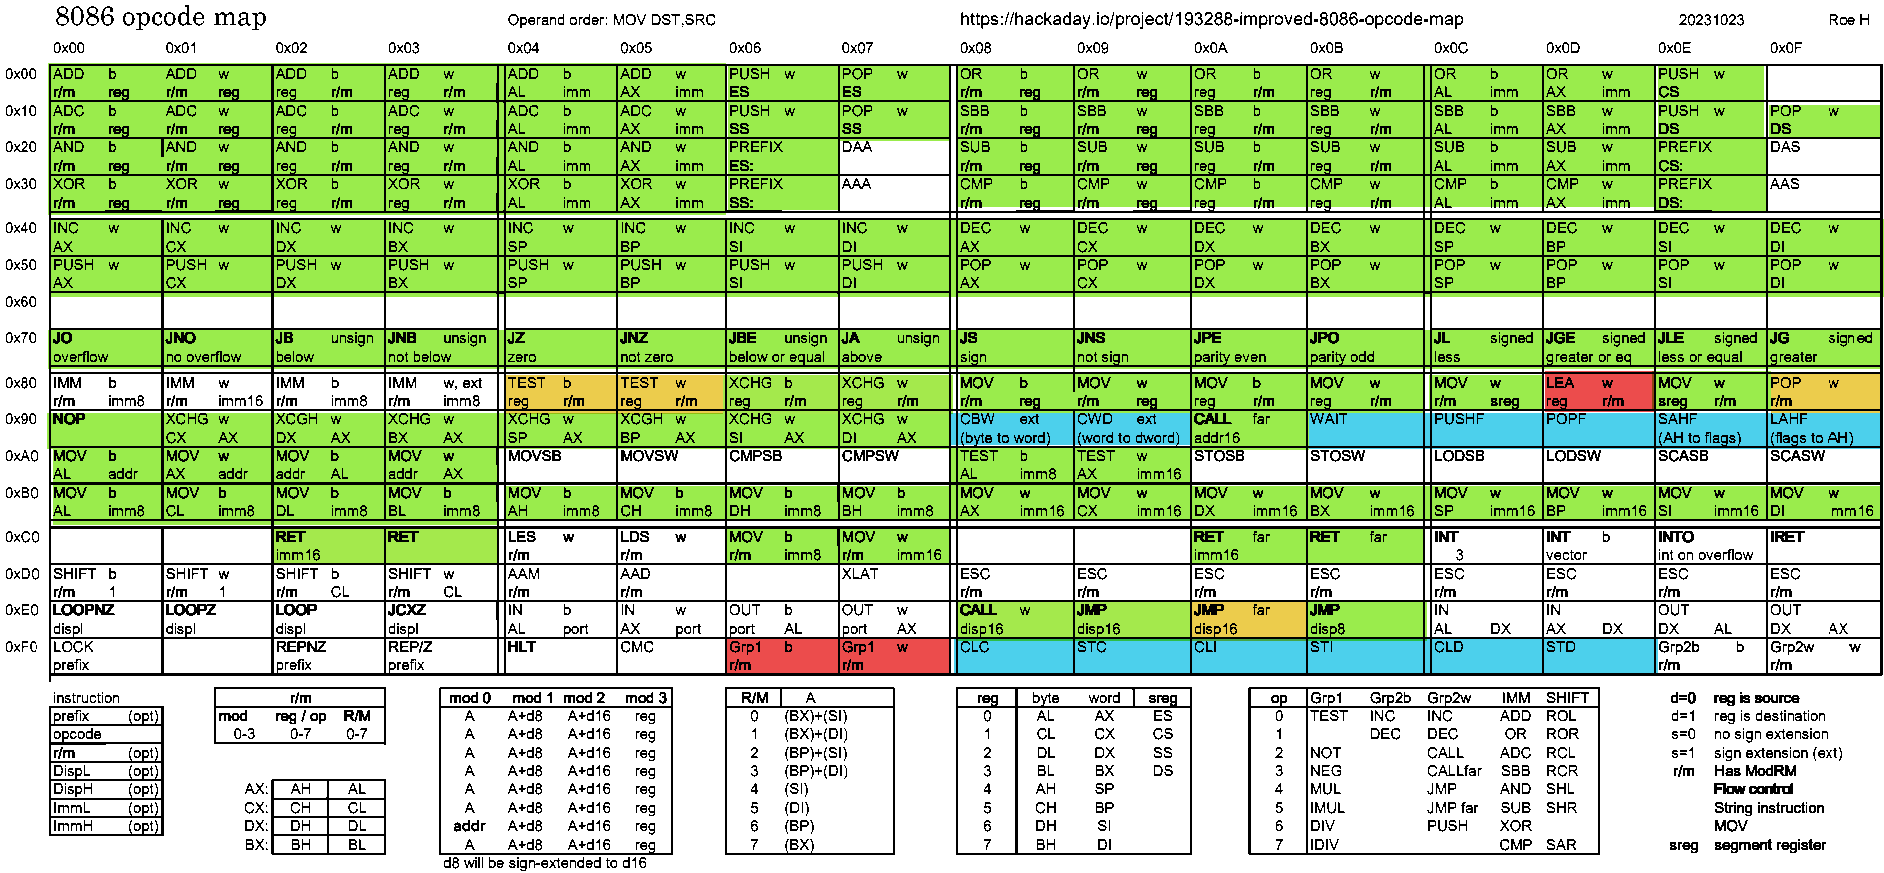
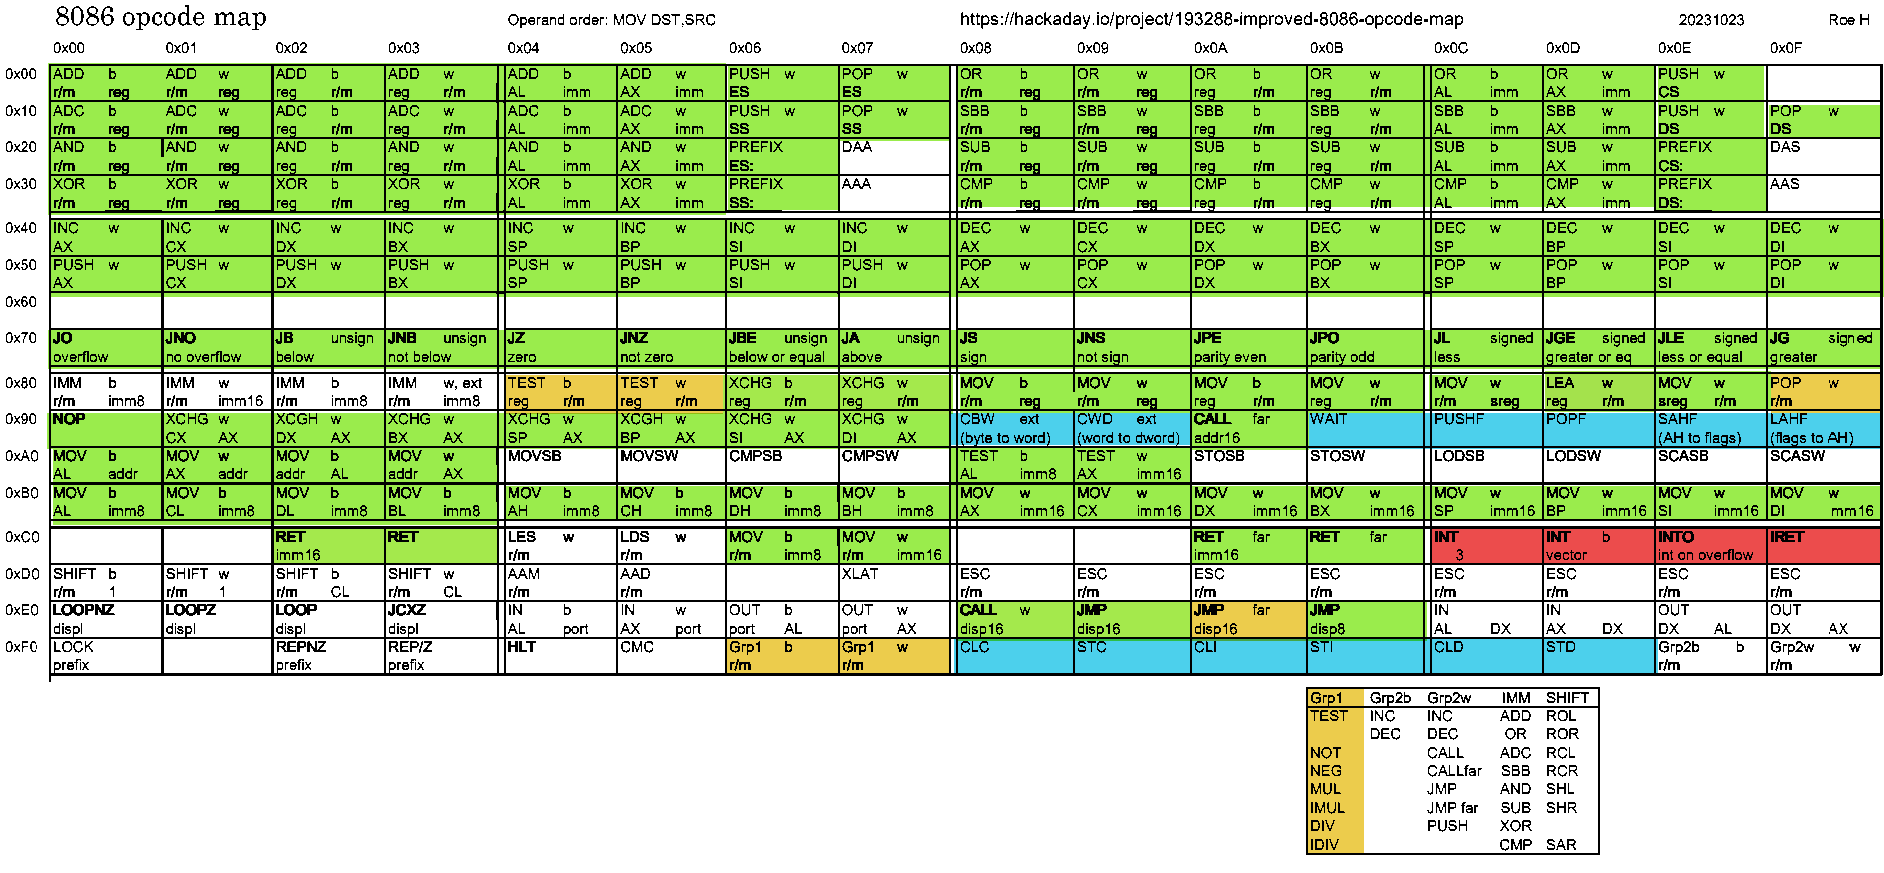
Added grp1 byte, fixed some stuff, shortened test for grp1

diff --git a/tinyvm/sand/cpu8086.c b/tinyvm/sand/cpu8086.c
@@ -11,6 +11,9 @@
 
 #include <string.h>
 
+#define ROL(X, N) ((X << N) | (X >> (sizeof (X) - N)))
+#define ROR(X, N) ((X >> N) | (X << (sizeof (X) - N)))
+
 #define REGSEG_SP_SS(CPU) regseg_imm(CPU, CPU->regs[REG8086_SP].x, CPU->regs[REG8086_SS].x)
 #define REGSEG_IP_CS(CPU) regseg_imm(CPU, CPU->regs[REG8086_IP].x, CPU->regs[REG8086_CS].x)
 #define REGSEG_IP_CS_ADD(CPU, N) regseg_add(&CPU->regs[REG8086_IP], &CPU->regs[REG8086_CS], N)
@@ -1191,11 +1194,8 @@ int cycle_cpu8086(cpu8086_t* cpu) {
   else if (opcode == 0xF7) {
     uint8_t modrm = get8(cpu, cpu->ip_cs + 1);
     uint16_t* rm = get_modrm_rm(cpu, modrm, 1);
-    switch (modrm & MODRM_OP_MASK) {
-      case OP_G1_TEST:
-      /* TODO: I literally have no idea where this might come from. */
-      break;
-      
+    uint8_t op = modrm & MODRM_OP_MASK;
+    switch (op) {
       case OP_G1_NOT:
       *rm = ~(*rm);
       break;
@@ -1204,22 +1204,22 @@ int cycle_cpu8086(cpu8086_t* cpu) {
       break;
 
       case OP_G1_MUL:
-      {
-        uint32_t res = mul_ins(cpu, cpu->regs[REG8086_AX].x, *rm, 1);
-        cpu->regs[REG8086_AX].x = res;
-        cpu->regs[REG8086_DX].x = res >> 16;
-      }
-      break;
-
       case OP_G1_IMUL:
       {
-        int32_t res = imul_ins(cpu, cpu->regs[REG8086_AX].x, (int16_t)*rm, 1);
+        uint32_t res;
+        if (op == OP_G1_MUL) {
+          res = mul_ins(cpu, cpu->regs[REG8086_AX].x, *rm, 1);
+        }
+        else {
+          res = imul_ins(cpu, (int32_t)cpu->regs[REG8086_AX].x, (int16_t)*rm, 1);
+        }
         cpu->regs[REG8086_AX].x = res;
         cpu->regs[REG8086_DX].x = res >> 16;
       }
       break;
 
       case OP_G1_DIV:
+      case OP_G1_IDIV:
       {
         uint32_t dxax;
         div_result_t res;
@@ -1227,23 +1227,65 @@ int cycle_cpu8086(cpu8086_t* cpu) {
           break;
         }
         dxax = cpu->regs[REG8086_AX].x | (((uint32_t)cpu->regs[REG8086_DX].x) << 16);
-        res = div_ins(cpu, dxax, *rm, 1);
+        if (op == OP_G1_DIV) {
+          res = div_ins(cpu, dxax, *rm, 1);
+        }
+        else {
+          res = idiv_ins(cpu, (int32_t)dxax, (int16_t)*rm, 1);
+        }
         cpu->regs[REG8086_AX].x = res.q;
         cpu->regs[REG8086_DX].x = res.r;
       }
       break;
+      
+      default:
+      break;
+    }
 
+    cpu->ip_add = 2;
+  }
+  /* Grp1 byte */
+  else if (opcode == 0xF6) {
+    uint8_t modrm = get8(cpu, cpu->ip_cs + 1);
+    uint8_t* rm = get_modrm_rm(cpu, modrm, 0);
+    uint8_t op = modrm & MODRM_OP_MASK;
+    switch (op) {
+      case OP_G1_NOT:
+      *rm = ~(*rm);
+      break;
+      case OP_G1_NEG:
+      *rm = -(*rm);
+      break;
+
+      case OP_G1_MUL:
+      case OP_G1_IMUL:
+      {
+        uint32_t res;
+        if (op == OP_G1_MUL) {
+          res = mul_ins(cpu, cpu->regs[REG8086_AX].p[0], *rm, 0);
+        }
+        else {
+          res = imul_ins(cpu, (int32_t)cpu->regs[REG8086_AX].p[0], (int16_t)*rm, 0);
+        }
+        cpu->regs[REG8086_AX].x = res;
+      }
+      break;
+
+      case OP_G1_DIV:
       case OP_G1_IDIV:
       {
-        int32_t dxax;
         div_result_t res;
         if (*rm == 0) {
           break;
         }
-        dxax = cpu->regs[REG8086_AX].x | (((uint32_t)cpu->regs[REG8086_DX].x) << 16);
-        res = idiv_ins(cpu, dxax, (int16_t)*rm, 1);
-        cpu->regs[REG8086_AX].x = res.q;
-        cpu->regs[REG8086_DX].x = res.r;
+        if (op == OP_G1_DIV) {
+          res = div_ins(cpu, cpu->regs[REG8086_AX].x, *rm, 0);
+        }
+        else {
+          res = idiv_ins(cpu, (int32_t)cpu->regs[REG8086_AX].x, (int16_t)*rm, 0);
+        }
+        cpu->regs[REG8086_AX].p[0] = res.q;
+        cpu->regs[REG8086_AX].p[1] = res.r;
       }
       break;
       

diff --git a/tinyvm/sand/cpu8086_tests.h b/tinyvm/sand/cpu8086_tests.h
@@ -420,25 +420,20 @@ static void test_grp1(void) {
 
     mul ax ; Square AX, result should be 9
 
-    mov ax, 2
-    mov dx, ax
-    mov ax, 9
+    mov dx, 2
 
     div dx ; AX should be 4
 
-    mov ax, -3
-    mov cx, ax
-    mov ax, 4
+    mov cx, -3
 
     imul cx ; AX should be -12
     idiv cx ; AX should be 4
     neg ax ; AX should be -4
-    not ax ; AX should be 0xFFFC
+    not ax ; AX should be 0x3
   */
   uint8_t code[] = {
-  0xb8, 0x03, 0x00, 0xf7, 0xe0, 0xb8, 0x02, 0x00, 0x89, 0xc2, 0xb8, 0x09,
-  0x00, 0xf7, 0xf2, 0xb8, 0xfd, 0xff, 0x89, 0xc1, 0xb8, 0x04, 0x00, 0xf7,
-  0xe9, 0xf7, 0xf9, 0xf7, 0xd8, 0xf7, 0xd0
+  0xb8, 0x03, 0x00, 0xf7, 0xe0, 0xba, 0x02, 0x00, 0xf7, 0xf2, 0xb9, 0xfd,
+  0xff, 0xf7, 0xe9, 0xf7, 0xf9, 0xf7, 0xd8, 0xf7, 0xd0
   };
 
   HOPE_THAT(init_mem8086(&mem, 0), "Memory initialized.");
@@ -461,15 +456,11 @@ static void test_grp1(void) {
 
   HOPE_THAT(!cycle_cpu8086(&cpu), "No error.");
   HOPE_THAT(!cycle_cpu8086(&cpu), "No error.");
-  HOPE_THAT(!cycle_cpu8086(&cpu), "No error.");
-  HOPE_THAT(!cycle_cpu8086(&cpu), "No error.");
   HOPE_THAT(
     cpu.regs[REG8086_AX].x == 4,
     "division successful"
   );
   
-  HOPE_THAT(!cycle_cpu8086(&cpu), "No error.");
-  HOPE_THAT(!cycle_cpu8086(&cpu), "No error.");
   HOPE_THAT(!cycle_cpu8086(&cpu), "No error.");
   HOPE_THAT(!cycle_cpu8086(&cpu), "No error.");
   HOPE_THAT(
